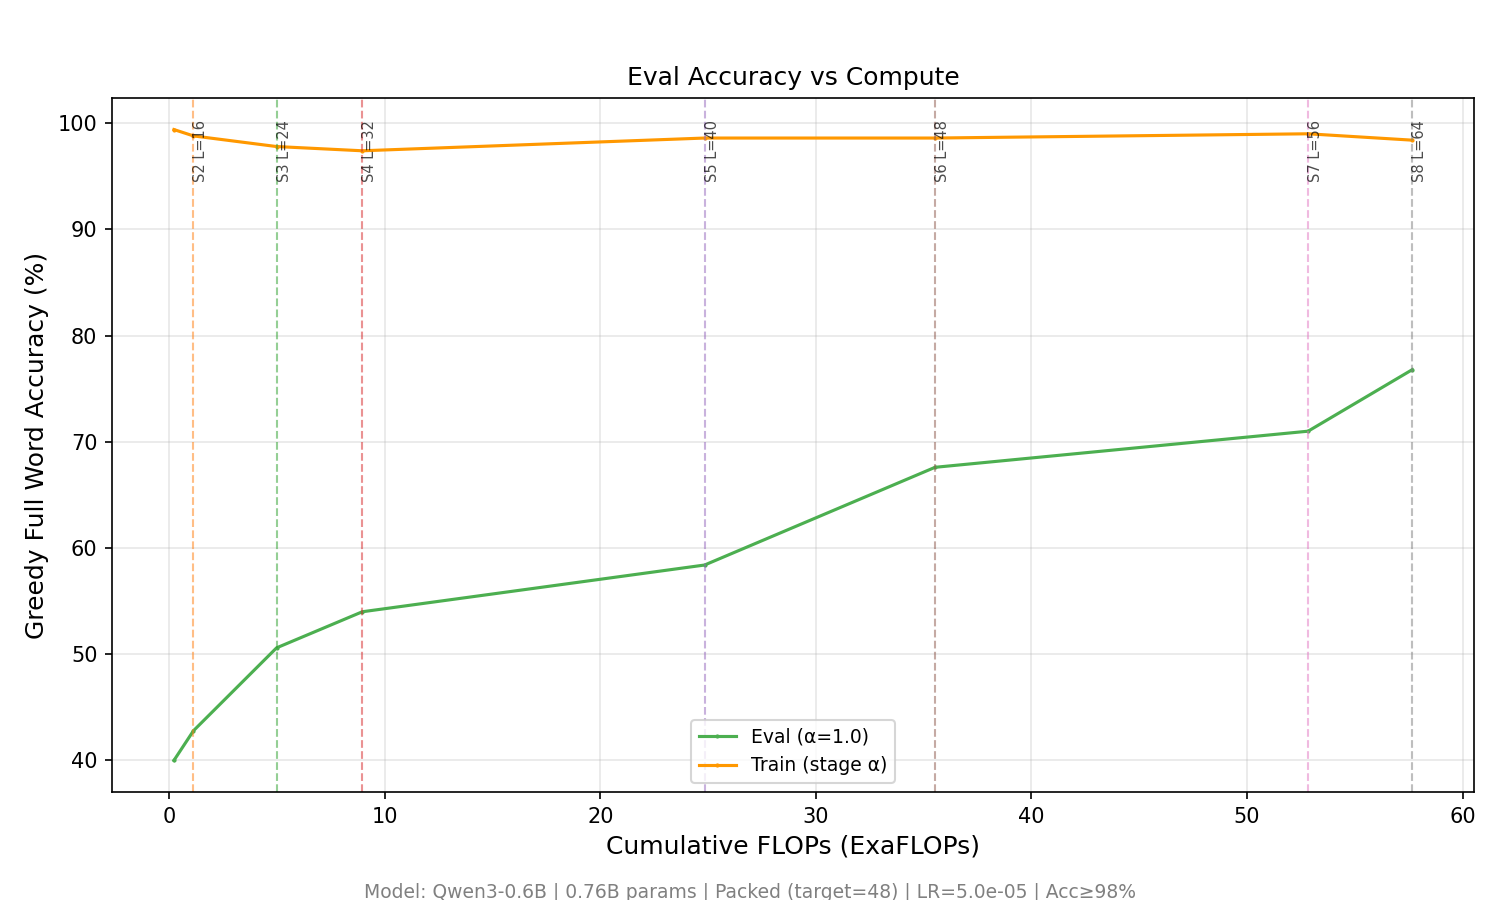
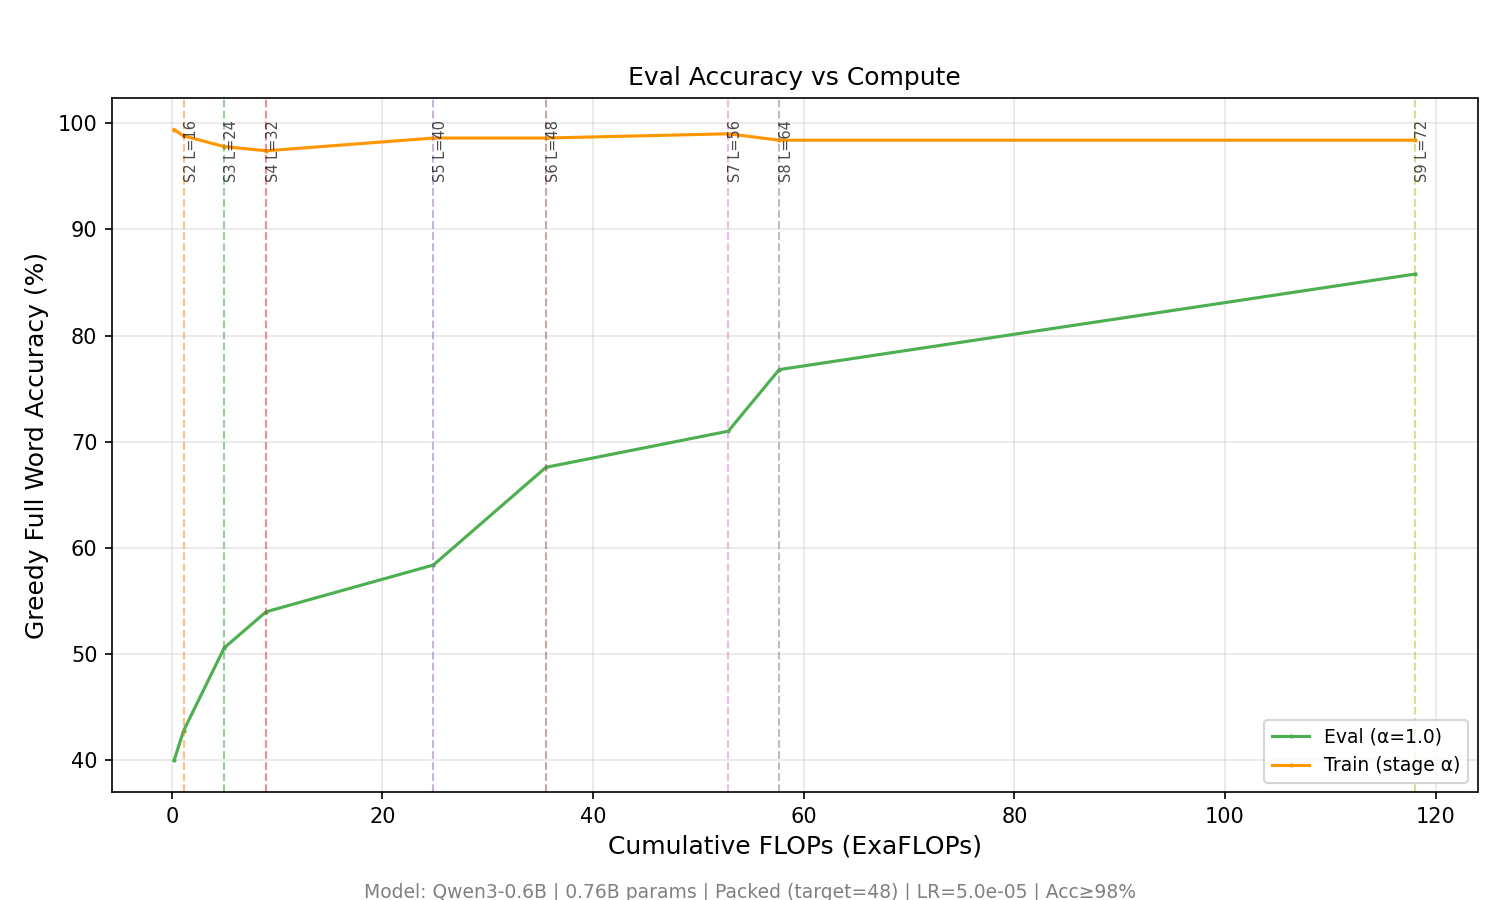
Update Exp 1 progress: Full-FT Done, R64 s16 step 29580, R8 s15 step 39370, R256 s10 step 31480

diff --git a/PROGRESS.md b/PROGRESS.md
@@ -3,7 +3,7 @@
 **Base commit:** `da7b19c` (`main`)
 **Branch:** `jackierwzhang/exp1-qwen06b-lora-vs-fullft`
 **VMs:** `nl-exp1-spot-fullft` (`europe-west1-c`, deleted after completion), `nl-exp1-spot-r8` (`a3-highgpu-4g`, 4x H100-80GB Spot, `us-east4-a`), `nl-exp1-spot-r64` (`a3-highgpu-4g`, 4x H100-80GB Spot, `europe-west1-c`), `nl-exp1-spot-r256` (`a3-highgpu-4g`, 4x H100-80GB Spot, `us-east4-b`)
-**Last updated:** 2026-10-15 03:06 UTC
+**Last updated:** 2026-10-15 03:23 UTC
 
 ## Shared Configuration
 
@@ -26,11 +26,11 @@
 | Arm | Job ID | Mode | GPUs | Status | Step | Stage / $L$ | Rolling Full Acc | Rolling First Acc | Loss | PFLOPs | TFLOP/s | Wall Time | Est. Remaining |
 | :--- | :--- | :--- | :--- | :--- | ---: | :--- | ---: | ---: | ---: | ---: | ---: | ---: | :--- |
 | Full-FT | `exp1_qwen06b_fullft` | Full FT | 0,1,2,3 (Spot 4x H100: nl-exp1-spot-fullft, europe-west1-c) | Completed | 27570 | 16 (`L=128`) | 97.62% | 98.88% | 0.0163 | 116023.73 | 405.3 | 71.26h | 0.0h (Done) |
-| LoRA `R=8` | `exp1_qwen06b_lora_r8` | `--use_lora --lora_rank 8` (`alpha=16, dropout=0.1`) | 0,1,2,3 (Spot 4x H100: nl-exp1-spot-r8, us-east4-a) | Running | 39320 | 15 (`L=120`) | 97.62% | 99.00% | 0.0196 | 138380.42 | 237.2 | 120.98h | ~17.5h (stage-wt) / ~0.0h (82k PFLOPs ref) |
-| LoRA `R=64` | `exp1_qwen06b_lora_r64` | `--use_lora --lora_rank 64` (`alpha=128, dropout=0.1`) | 0,1,2,3 (Spot 4x H100: nl-exp1-spot-r64, europe-west1-c) | Running | 29530 | 16 (`L=128`) | 96.25% | 97.88% | 0.0255 | 122425.64 | 220.0 | 113.97h | ~1.1h (stage-wt) / ~0.0h (82k PFLOPs ref) |
-| LoRA `R=256` | `exp1_qwen06b_lora_r256` | `--use_lora --lora_rank 256` (`alpha=512, dropout=0.1`) | 0,1,2,3 (Spot 4x H100: nl-exp1-spot-r256, us-east4-b) | Running | 31430 | 9 (`L=72`) | 96.75% | 98.12% | 0.0176 | 92828.38 | 161.0 | 119.39h | ~247.3h (stage-wt) / ~0.0h (82k PFLOPs ref) |
+| LoRA `R=8` | `exp1_qwen06b_lora_r8` | `--use_lora --lora_rank 8` (`alpha=16, dropout=0.1`) | 0,1,2,3 (Spot 4x H100: nl-exp1-spot-r8, us-east4-a) | Running | 39370 | 15 (`L=120`) | 96.12% | 97.88% | 0.0184 | 138699.65 | 238.1 | 121.26h | ~17.6h (stage-wt) / ~0.0h (82k PFLOPs ref) |
+| LoRA `R=64` | `exp1_qwen06b_lora_r64` | `--use_lora --lora_rank 64` (`alpha=128, dropout=0.1`) | 0,1,2,3 (Spot 4x H100: nl-exp1-spot-r64, europe-west1-c) | Running | 29580 | 16 (`L=128`) | 96.50% | 97.62% | 0.0225 | 122757.90 | 220.0 | 114.28h | ~1.1h (stage-wt) / ~0.0h (82k PFLOPs ref) |
+| LoRA `R=256` | `exp1_qwen06b_lora_r256` | `--use_lora --lora_rank 256` (`alpha=512, dropout=0.1`) | 0,1,2,3 (Spot 4x H100: nl-exp1-spot-r256, us-east4-b) | Running | 31480 | 10 (`L=80`) | 94.75% | 96.00% | 0.0307 | 93033.37 | 162.1 | 119.71h | ~230.4h (stage-wt) / ~0.0h (82k PFLOPs ref) |
 
-> **ETA Methodology & Overall Experiment 1 Completion (3 Active Arms on 12x Spot H100; Full-FT Completed):** `stage-wt` scales current wall time by remaining lookahead units ($\sum_{k=1}^{16} k = 136$); `82k PFLOPs ref` divides remaining compute against the collaborator's `Qwen3-0.6B` `step=8` cold-start reference (`82,000 PFLOPs` to `L=128`) by the arm's measured `PFLOPs/h` rate. Next arm completion is estimated in **~1.1h (stage-wt) / ~0.0h (82k PFLOPs ref)**; full 4-arm concurrent completion is bounded by the slowest arm at **~247.3h (stage-wt) to ~0.0h (82k PFLOPs ref)**.
+> **ETA Methodology & Overall Experiment 1 Completion (3 Active Arms on 12x Spot H100; Full-FT Completed):** `stage-wt` scales current wall time by remaining lookahead units ($\sum_{k=1}^{16} k = 136$); `82k PFLOPs ref` divides remaining compute against the collaborator's `Qwen3-0.6B` `step=8` cold-start reference (`82,000 PFLOPs` to `L=128`) by the arm's measured `PFLOPs/h` rate. Next arm completion is estimated in **~1.1h (stage-wt) / ~0.0h (82k PFLOPs ref)**; full 4-arm concurrent completion is bounded by the slowest arm at **~230.4h (stage-wt) to ~0.0h (82k PFLOPs ref)**.
 
 ## Stage Evaluation Summary (`stage_eval_history.json`)
 
@@ -89,3 +89,4 @@
 | LoRA `R=256` | 6 | 13675 | 48 | 0.382 | 0.2203 | 67.80% | 67.60% | 98.60% | 98.60% |
 | LoRA `R=256` | 7 | 18125 | 56 | 0.445 | 0.2113 | 71.80% | 71.00% | 99.00% | 99.00% |
 | LoRA `R=256` | 8 | 19225 | 64 | 0.508 | 0.1456 | 77.20% | 76.80% | 98.40% | 98.40% |
+| LoRA `R=256` | 9 | 31450 | 72 | 0.571 | 0.1056 | 86.40% | 85.80% | 98.80% | 98.40% |
